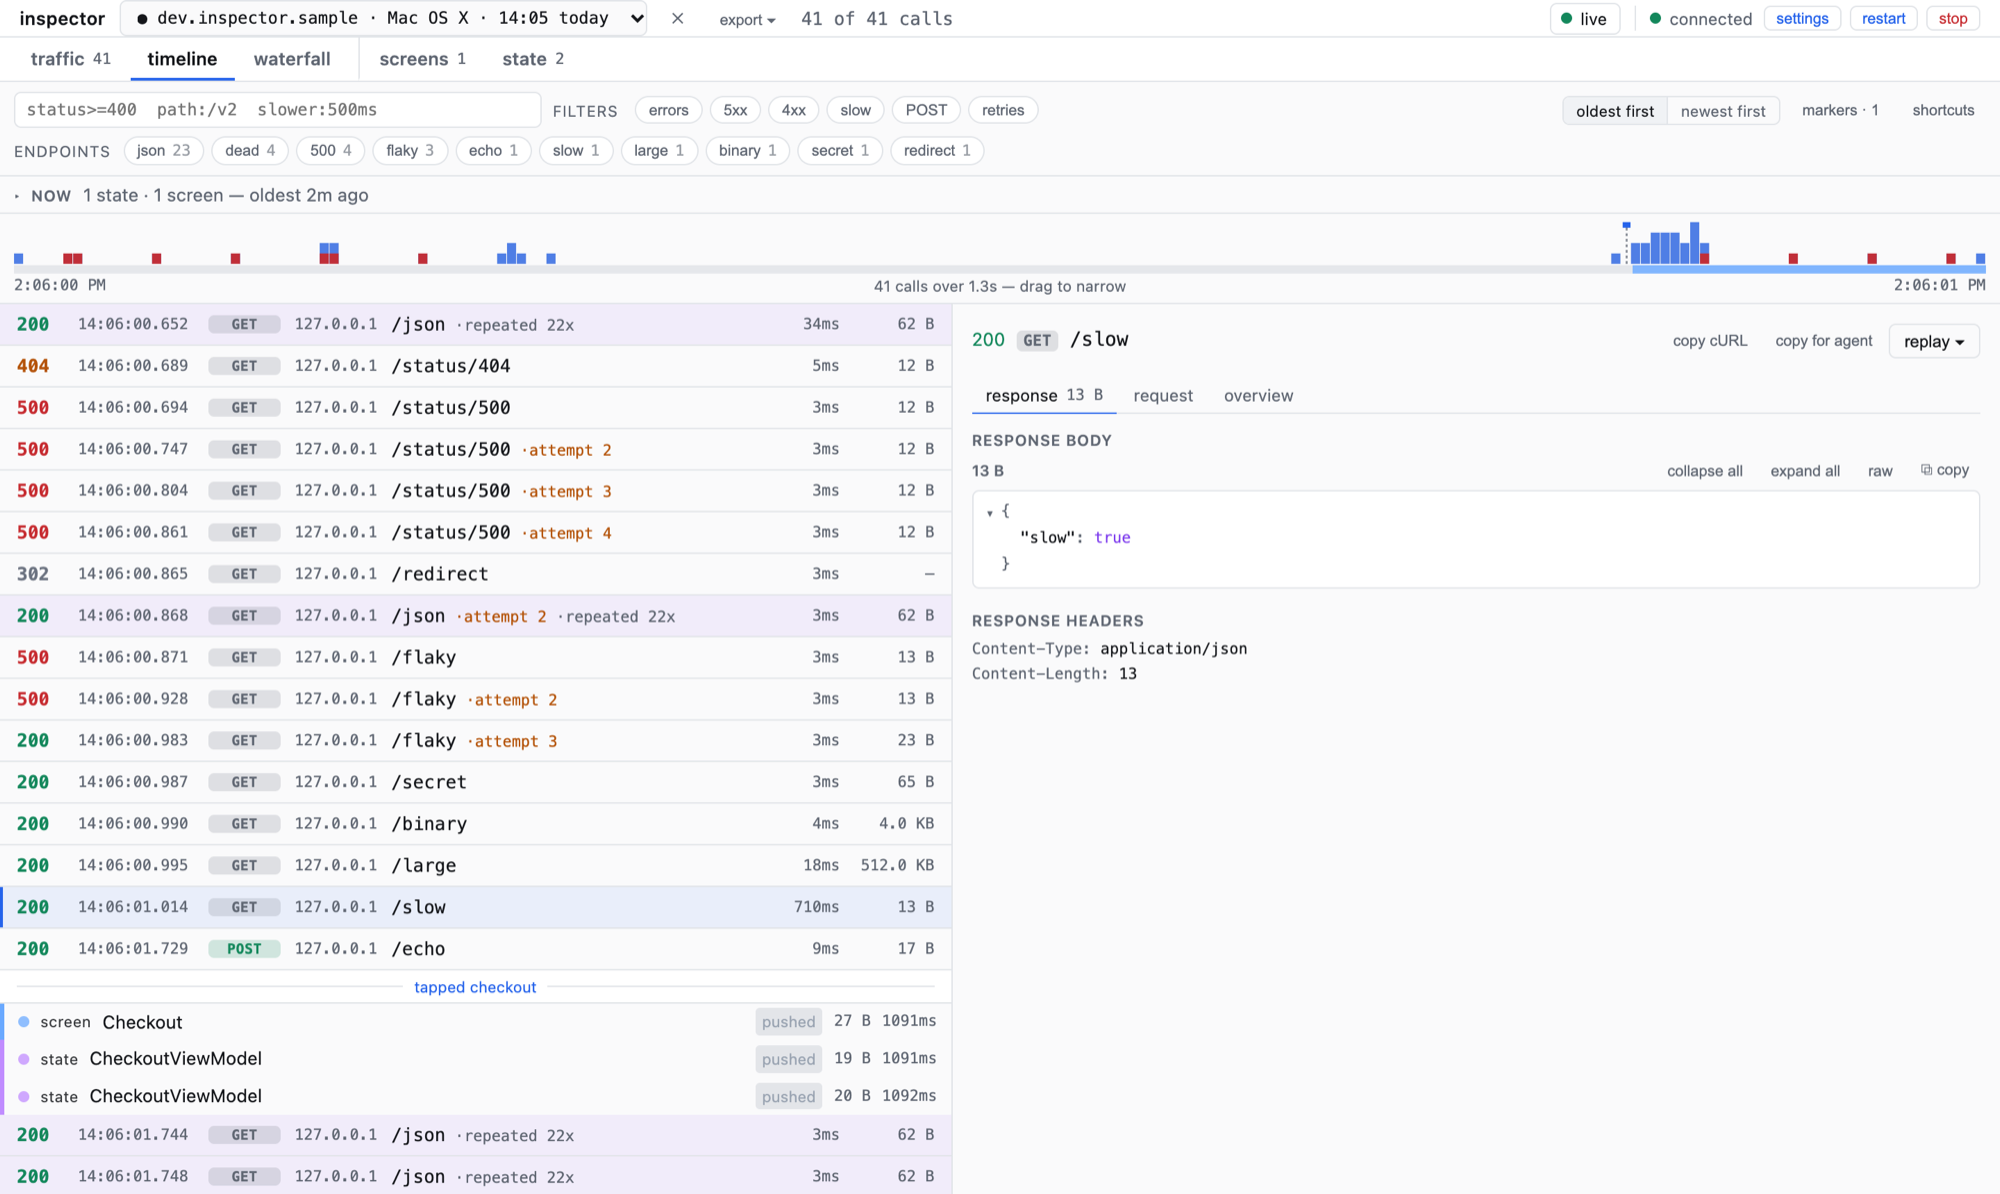
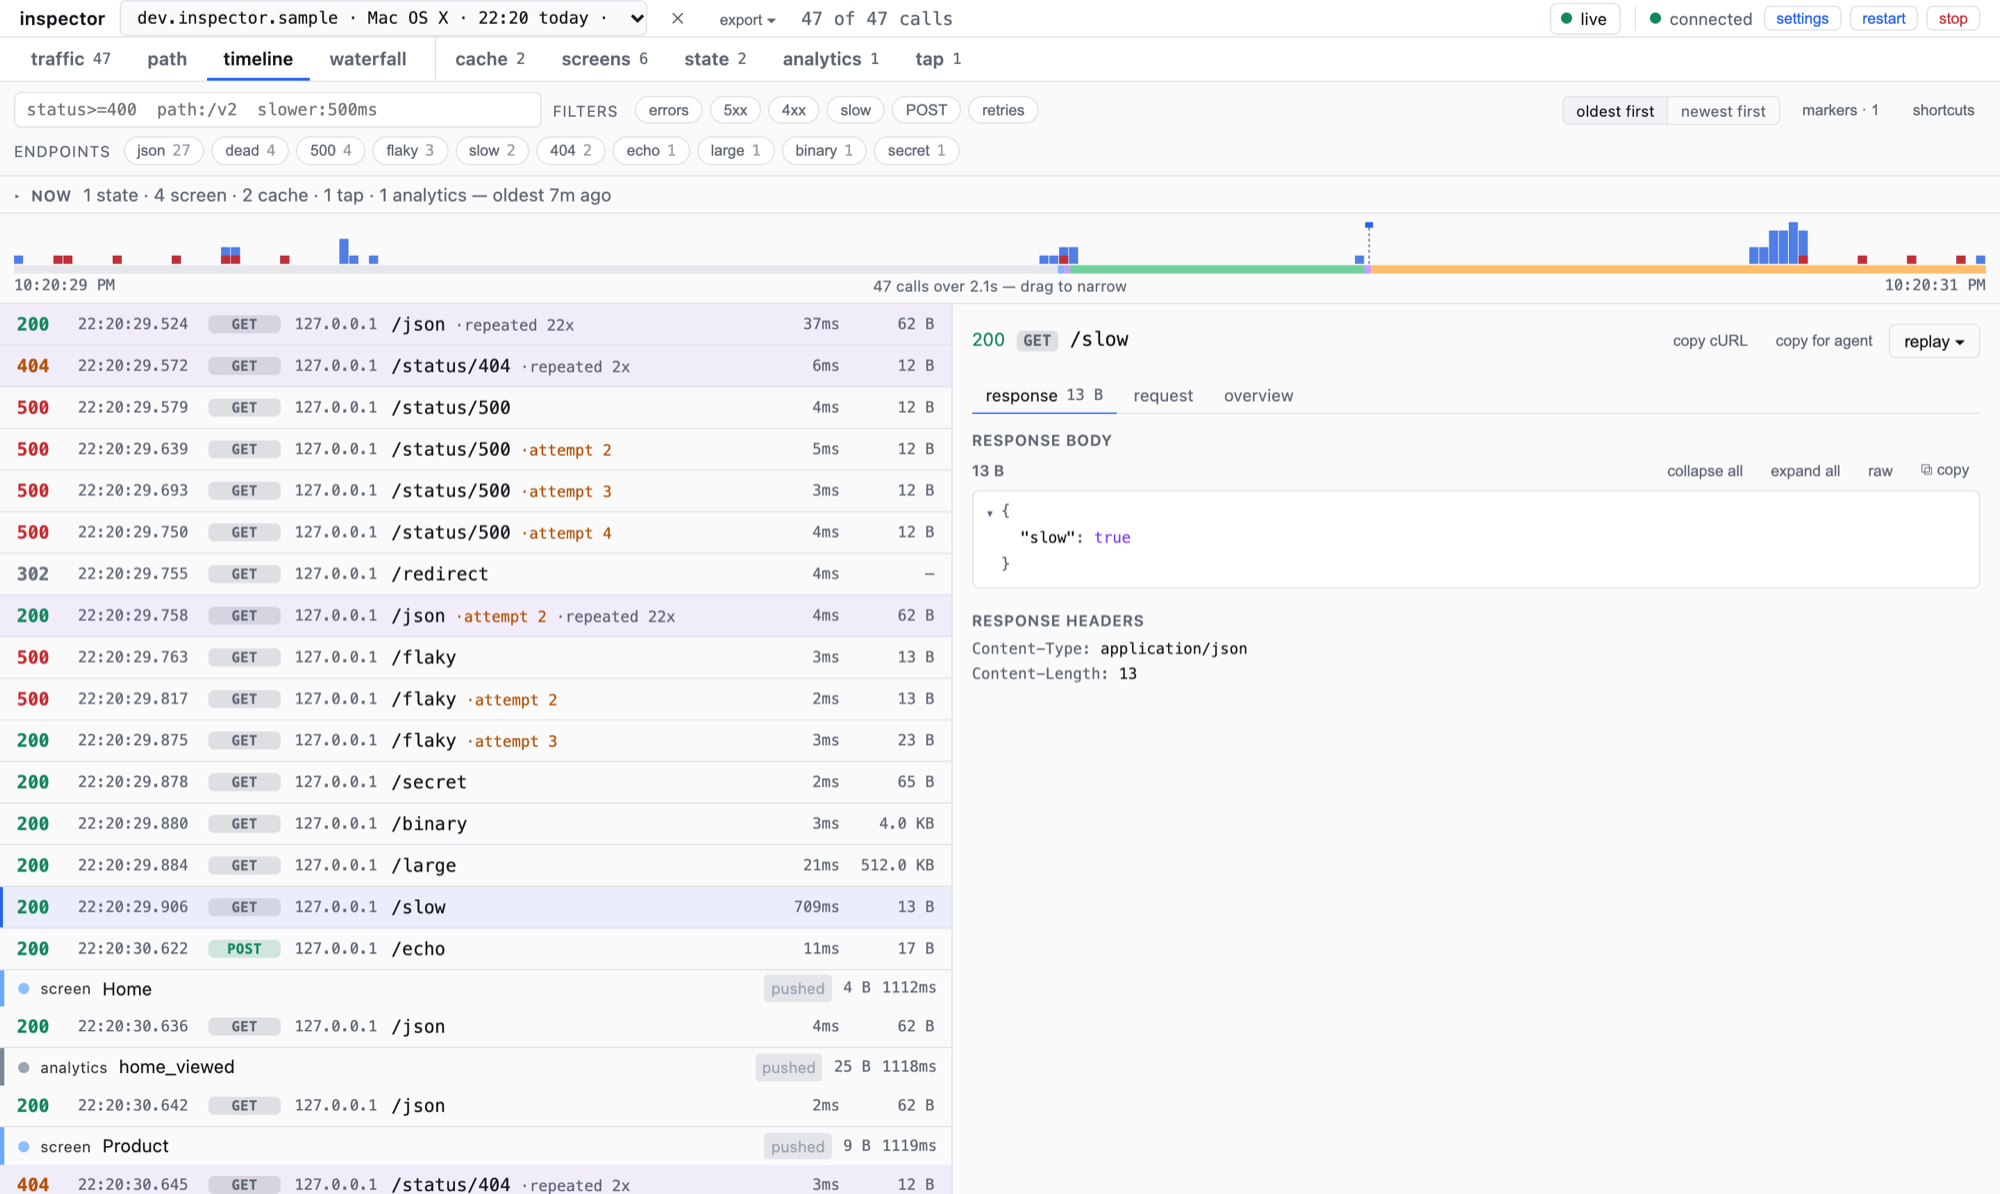
docs: release 1.3.0 — the path view
Bumps every coordinate to 1.3.0 and adds INTEGRATION.md v57: bump, download the daemon, and send
`screen` when navigation commits so calls land on the screen that made them. Notes the new
optional `seq` field and that filters no longer hide screens in the waterfall or on the axis.
README gains a 1.3.0 paragraph; the roadmap marks the path view released.

Site: a New in 1.3.0 section with the path view, a path button in the web UI switcher, and every
web screenshot retaken from a fresh scripted sample session (the tab bar changed), plus
web-path-{dark,light}.png. The 1.2.0 export and iPhone copy now read "Since 1.2.0".

diff --git a/site/index.html b/site/index.html
@@ -198,7 +198,7 @@ footer .wrap { display: flex; flex-wrap: wrap; gap: 16px; justify-content: space
 <!-- ───────────────────────── HERO ───────────────────────── -->
 <header class="hero">
   <div class="wrap">
-    <a class="new" href="#platforms"><b>1.2.0</b>iPhone over USB · export a whole session as one file</a>
+    <a class="new" href="#path"><b>1.3.0</b>The path a user took, and what happened on every screen</a>
     <div class="eyebrow">Compose Multiplatform · Ktor · OkHttp</div>
     <h1>Every call your app makes.<br>In the app, in your browser,<br>and in your AI agent.</h1>
     <p class="lede">Inspector is a network inspector for Compose Multiplatform apps. One capture feeds an
@@ -207,7 +207,7 @@ footer .wrap { display: flex; flex-wrap: wrap; gap: 16px; justify-content: space
     <div class="btns">
       <a class="btn primary" href="#start">Get started</a>
       <a class="btn" href="https://github.com/Shafichariri/kinspector">★ Star on GitHub</a>
-      <span class="coord"><span id="coord">io.github.shafichariri:inspector-core:1.2.0</span><button onclick="copyCoord(this)">copy</button></span>
+      <span class="coord"><span id="coord">io.github.shafichariri:inspector-core:1.3.0</span><button onclick="copyCoord(this)">copy</button></span>
     </div>
 
     <!-- Diagram 1: one call, four places. The dots are the point — a request leaves the app and
@@ -435,6 +435,7 @@ inspector: usb bridge on — a USB-attached iPhone is dialled
     <p class="lede">The daemon serves this page at <code>127.0.0.1:8099</code>. Screenshots are from the bundled sample app.</p>
     <div class="seg" role="group" aria-label="Web UI view">
       <button type="button" data-shot="web-list" aria-pressed="true">traffic</button>
+      <button type="button" data-shot="web-path" aria-pressed="false">path</button>
       <button type="button" data-shot="web-timeline" aria-pressed="false">timeline + signals</button>
       <button type="button" data-shot="web-waterfall" aria-pressed="false">waterfall</button>
     </div>
@@ -448,10 +449,30 @@ inspector: usb bridge on — a USB-attached iPhone is dialled
   </div>
 </section>
 
+<!-- ───────────────────────── PATH ───────────────────────── -->
+<section id="path">
+  <div class="wrap">
+    <div class="eyebrow">New in 1.3.0</div>
+    <h2>Follow the user from screen to screen</h2>
+    <p class="lede">The <b>path</b> tab draws the route through the app as a line of stations, one per visit, and under
+      it a line per visit: the calls, cache writes, analytics events and taps that happened while that screen was up,
+      in order. It updates live as the user moves, without pulling the view away from what you are reading.</p>
+    <div class="window">
+      <div class="bar"><i></i><i></i><i></i><span style="margin-left:8px">127.0.0.1:8099</span></div>
+      <picture>
+        <source srcset="img/web-path-light.png" media="(prefers-color-scheme: light)">
+        <img src="img/web-path-dark.png" alt="The path tab: stations for each screen visit along the top, and a line per visit with its calls and signals" loading="lazy">
+      </picture>
+    </div>
+    <p class="note">Needs your app to send a <code>screen</code> signal when it navigates. Anything else you send, under any
+      tag, appears on the screen it happened on. A failed call is always shown, never folded away.</p>
+  </div>
+</section>
+
 <!-- ───────────────────────── EXPORT ───────────────────────── -->
 <section>
   <div class="wrap">
-    <div class="eyebrow">New in 1.2.0</div>
+    <div class="eyebrow">Since 1.2.0</div>
     <h2>Hand a whole session to someone else</h2>
     <p class="lede">Use <b>export ▾</b> beside the session picker. Each export is one file, holds the whole session with
       no filter or page limit, and the person you send it to doesn't need Inspector installed.</p>
@@ -516,7 +537,7 @@ inspector: usb bridge on — a USB-attached iPhone is dialled
   <div class="wrap">
     <div class="eyebrow">Platforms</div>
     <h2>Where it runs today</h2>
-    <p class="lede">Every row below says exactly what has been tested. New in 1.2.0: a physical iPhone, over the cable.</p>
+    <p class="lede">Every row below says exactly what has been tested. Since 1.2.0: a physical iPhone, over the cable.</p>
 
     <!-- Diagram 3: how each device reaches the daemon. -->
     <div class="diagram-box" style="margin-bottom:32px">
@@ -562,7 +583,7 @@ inspector: usb bridge on — a USB-attached iPhone is dialled
           <tr><td>Android emulator</td><td class="st yes">✓ Supported</td><td>Overlay and daemon verified with the sample app.</td></tr>
           <tr><td>iOS simulator</td><td class="st yes">✓ Supported</td><td>Overlay and daemon verified with the sample app.</td></tr>
           <tr><td>Desktop (JVM)</td><td class="st yes">✓ Supported</td><td>The reference sample.</td></tr>
-          <tr><td>iPhone, over USB</td><td class="st yes">✓ Supported</td><td>New in 1.2.0. Plug it in and run <code>inspector serve</code>, with no code change. Verified on an iPhone 12 Pro: 188 calls archived, and replay signing works across the cable. Cable only; a phone paired over Wi-Fi is skipped by design.</td></tr>
+          <tr><td>iPhone, over USB</td><td class="st yes">✓ Supported</td><td>Since 1.2.0. Plug it in and run <code>inspector serve</code>, with no code change. Verified on an iPhone 12 Pro: 188 calls archived, and replay signing works across the cable. Cable only; a phone paired over Wi-Fi is skipped by design.</td></tr>
           <tr><td>Android phone, over USB</td><td class="st early">◐ Early</td><td>Connects through <code>adb reverse</code>. The route is verified on an emulator, but no Android build has run on a physical phone yet. Reports welcome.</td></tr>
         </tbody>
       </table>
@@ -622,8 +643,8 @@ inspector: usb bridge on — a USB-attached iPhone is dialled
     <div class="steps">
       <div class="step"><div>
         <h3>Add the dependency</h3>
-<pre>implementation("io.github.shafichariri:inspector-core:1.2.0")
-implementation("io.github.shafichariri:inspector-ui:1.2.0")</pre>
+<pre>implementation("io.github.shafichariri:inspector-core:1.3.0")
+implementation("io.github.shafichariri:inspector-ui:1.3.0")</pre>
       </div></div>
       <div class="step"><div>
         <h3>Install it and wrap your root</h3>

diff --git a/docs/INTEGRATION.md b/docs/INTEGRATION.md
@@ -1,6 +1,6 @@
 # Integrating Inspector into a Compose Multiplatform app
 
-**Document version: v56 — 2026-10-11.**
+**Document version: v57 — 2026-10-12.**
 Already integrated from an earlier copy? Go to **[§14 Changelog](#14-changelog)** first — it says
 what changed and, for each version, what you actually have to do about it. Most upgrades are a
 rebuild and nothing else.
@@ -34,8 +34,8 @@ repositories { mavenCentral() }
 
 ```kotlin
 // your module's build file. §2 — and check §1 first, version alignment is the usual failure
-implementation("io.github.shafichariri:inspector-core:1.2.0")
-implementation("io.github.shafichariri:inspector-ui:1.2.0")
+implementation("io.github.shafichariri:inspector-core:1.3.0")
+implementation("io.github.shafichariri:inspector-ui:1.3.0")
 ```
 
 ```kotlin
@@ -177,8 +177,8 @@ purpose is that release builds carry nothing — with a 401 that names the wrong
 kotlin {
     sourceSets {
         commonMain.dependencies {
-            implementation("io.github.shafichariri:inspector-core:1.2.0")
-            implementation("io.github.shafichariri:inspector-ui:1.2.0")
+            implementation("io.github.shafichariri:inspector-core:1.3.0")
+            implementation("io.github.shafichariri:inspector-ui:1.3.0")
         }
     }
 }
@@ -239,11 +239,11 @@ kotlin {
     sourceSets {
         commonMain.dependencies {
             if (inspectorOff) {
-                implementation("io.github.shafichariri:inspector-noop:1.2.0")
-                implementation("io.github.shafichariri:inspector-noop-ui:1.2.0")
+                implementation("io.github.shafichariri:inspector-noop:1.3.0")
+                implementation("io.github.shafichariri:inspector-noop-ui:1.3.0")
             } else {
-                implementation("io.github.shafichariri:inspector-core:1.2.0")
-                implementation("io.github.shafichariri:inspector-ui:1.2.0")
+                implementation("io.github.shafichariri:inspector-core:1.3.0")
+                implementation("io.github.shafichariri:inspector-ui:1.3.0")
             }
         }
     }
@@ -424,13 +424,13 @@ Add it to **both** branches of the if/else from section 3:
 
 ```kotlin
 if (inspectorOff) {
-    implementation("io.github.shafichariri:inspector-noop:1.2.0")
-    implementation("io.github.shafichariri:inspector-noop-ui:1.2.0")
-    implementation("io.github.shafichariri:inspector-noop-stream:1.2.0")
+    implementation("io.github.shafichariri:inspector-noop:1.3.0")
+    implementation("io.github.shafichariri:inspector-noop-ui:1.3.0")
+    implementation("io.github.shafichariri:inspector-noop-stream:1.3.0")
 } else {
-    implementation("io.github.shafichariri:inspector-core:1.2.0")
-    implementation("io.github.shafichariri:inspector-ui:1.2.0")
-    implementation("io.github.shafichariri:inspector-stream:1.2.0")
+    implementation("io.github.shafichariri:inspector-core:1.3.0")
+    implementation("io.github.shafichariri:inspector-ui:1.3.0")
+    implementation("io.github.shafichariri:inspector-stream:1.3.0")
 }
 ```
 
@@ -1300,7 +1300,37 @@ If your copy has no version line at the top, identify it by what it contains:
 | Methods are badges; web UI has a sort toggle | **v9** |
 | §1 says Kotlin 2.3.20 | **v10** |
 
-### v56 — 2026-10-11 (this document)
+### v57 — 2026-10-12 (this document)
+
+**Bump to 1.3.0 and download the 1.3.0 daemon. Your code does not have to change.**
+
+```diff
+-implementation("io.github.shafichariri:inspector-core:1.2.0")
++implementation("io.github.shafichariri:inspector-core:1.3.0")
+```
+
+…and the same for every other `inspector-*` coordinate, `inspector-noop*` included. No public API
+changed, so a release build using the no-op artifacts is unaffected.
+
+- **The web UI has a `path` tab: the screens the user moved through, and what happened on each.**
+  A row of stations along the top, one per visit, and a line per visit beneath it with its calls,
+  signals and markers in order, counted by kind (`11 network · 17 warmup · 11 cache`). It updates
+  live, and follows only when you are already at the end. See §6e.
+- **It is only as good as your `screen` signal's timing — do this one thing.** A call belongs to
+  the screen that was showing when it started. If `screen` is sent from inside the new
+  destination, the calls its view-model fires as it opens land on the *previous* screen. Send it
+  when navigation commits instead — `addOnDestinationChangedListener` does — see §12c. Apps that
+  send no `screen` signal at all see one line saying so.
+- **A tap and the navigation it triggers keep their order, even in the same millisecond.** Every
+  call, signal and marker now carries a capture `seq`, and the path uses it to break ties. It is a
+  new optional field on the archive's rows; anything reading `index.jsonl` sees it and can ignore
+  it. Sessions recorded before 1.3.0 read exactly as before.
+- **Filtering no longer hides screens in the waterfall or on the time axis.** A `path:` filter used
+  to remove every screen from both, and a screen with no matching calls was dropped from the
+  waterfall — drawing a route nobody took. Both keep every screen now, and show the empty ones as
+  such.
+
+### v56 — 2026-10-11
 
 **Bump to 1.2.0 and download the 1.2.0 daemon. Your code does not change.**
 

diff --git a/docs/ROADMAP.md b/docs/ROADMAP.md
@@ -409,7 +409,7 @@ Not new, and not forgotten. Collected here because they were spread across nine 
 | Whole-session export | Requested 2026-10-10 | **Done, 2026-10-10.** `export.html`, `export.md` and `export.json` under `/api/sessions/{id}/`, the web UI's export menu, and the `export_session` MCP tool. The HTML is the web UI itself in an archive mode, not a report written for the purpose. Building it found the HAR export silently stopping at 1000 rows |
 | Signal payload redaction | `SIGNALS.md`, `schema.md` | `Signal.redacted` is reserved and always empty; the schema field is already there |
 | Disconnected-transaction backfill | `schema.md` | Explicitly a v2 candidate |
-| The path view — what was left out | `AGENTS.md`, "the path, the waterfall and the axis band are one rule" | Web `path` tab **done, 2026-10-11**. Deliberately deferred: the overlay (a phone has no width for a route, and its merged list is already the vertical version); an MCP `path` tool (`timeline` carries the same stream — build it when an agent visibly struggles); concurrency hints inside a column; a map view with each screen once and transitions counted; making `path` the landing tab, which stays `network` until the view has earned it |
+| The path view — what was left out | `AGENTS.md`, "the path, the waterfall and the axis band are one rule" | Web `path` tab **done, 2026-10-11; released in 1.3.0**. Deliberately deferred: the overlay (a phone has no width for a route, and its merged list is already the vertical version); an MCP `path` tool (`timeline` carries the same stream — build it when an agent visibly struggles); concurrency hints inside a column; a map view with each screen once and transitions counted; making `path` the landing tab, which stays `network` until the view has earned it |
 
 ### Guards
 

diff --git a/README.md b/README.md
@@ -55,6 +55,12 @@ publishing is irreversible, so it stops short: the Portal validates the bundle a
 human to press Publish. That means the Maven Central badge legitimately sits a version behind the
 release badge until somebody does. If it stays behind, that button has not been pressed.
 
+**1.3.0 shows the path a user took through your app, and changes no code of yours.** The web UI's
+new `path` tab draws each screen visit as a station and, under it, everything that happened while
+that screen was up — calls, cache writes, analytics, taps — counted by kind and updating live. It
+reads your existing `screen` signals; send them when navigation commits and every call lands on
+the screen that made it. Bump the version; `INTEGRATION.md` v57 says what to do.
+
 **1.2.0 brings a physical iPhone to the web UI, and changes no code of yours.** Plug it in and run
 `inspector serve`: on a physical iPhone the app listens on its own loopback and the daemon dials it
 through usbmuxd, so nothing is exposed to the network. A session can also be exported as one file —
@@ -188,9 +194,9 @@ repositories { mavenCentral() }
 Then depend on it, and add `inspector-stream` only if you want the web UI and the on-disk archive:
 
 ```kotlin
-implementation("io.github.shafichariri:inspector-core:1.2.0")
-implementation("io.github.shafichariri:inspector-ui:1.2.0")
-implementation("io.github.shafichariri:inspector-stream:1.2.0")
+implementation("io.github.shafichariri:inspector-core:1.3.0")
+implementation("io.github.shafichariri:inspector-ui:1.3.0")
+implementation("io.github.shafichariri:inspector-stream:1.3.0")
 ```
 
 Three lines of code:

diff --git a/site/img/README.md b/site/img/README.md
@@ -6,7 +6,7 @@ change.
 | Files | What | How |
 |---|---|---|
 | `overlay-*.png` | The in-app overlay at 360dp | `./gradlew :inspector-ui:jvmTest --tests '*ListRenderTest*'`, then copy from `inspector-ui/build/screenshots/` |
-| `web-{list,timeline,waterfall}-{dark,light}.png` | The web UI against the desktop sample's scripted session | Scratch daemon on its own port and `--data` dir, sample pointed at it, `-Dinspector.sample.autofire=true`, then headless Chrome at 1440×860 @2x, resized to 2000px wide |
+| `web-{list,path,timeline,waterfall}-{dark,light}.png` | The web UI against the desktop sample's scripted session, `GET /slow` selected (on `path`, its Cart visit opened from the map) | Scratch daemon on its own port and `--data` dir, sample pointed at it, `-Dinspector.sample.autofire=true`, then headless Chrome at 1440×860 @2x, resized to 2000px wide |
 
 **Never use your everyday daemon or archive for these.** It holds real app traffic, and redaction
 is off by default. This repository is public, so no real app's hosts, paths, tokens or names may

diff --git a/docs/ACCESS.md b/docs/ACCESS.md
@@ -18,8 +18,8 @@ repositories { mavenCentral() }
 ```
 
 ```kotlin
-implementation("io.github.shafichariri:inspector-core:1.2.0")
-implementation("io.github.shafichariri:inspector-ui:1.2.0")
+implementation("io.github.shafichariri:inspector-core:1.3.0")
+implementation("io.github.shafichariri:inspector-ui:1.3.0")
 ```
 
 No token, no account, no repository block. Maven Central serves anonymously, and `mavenCentral()`
